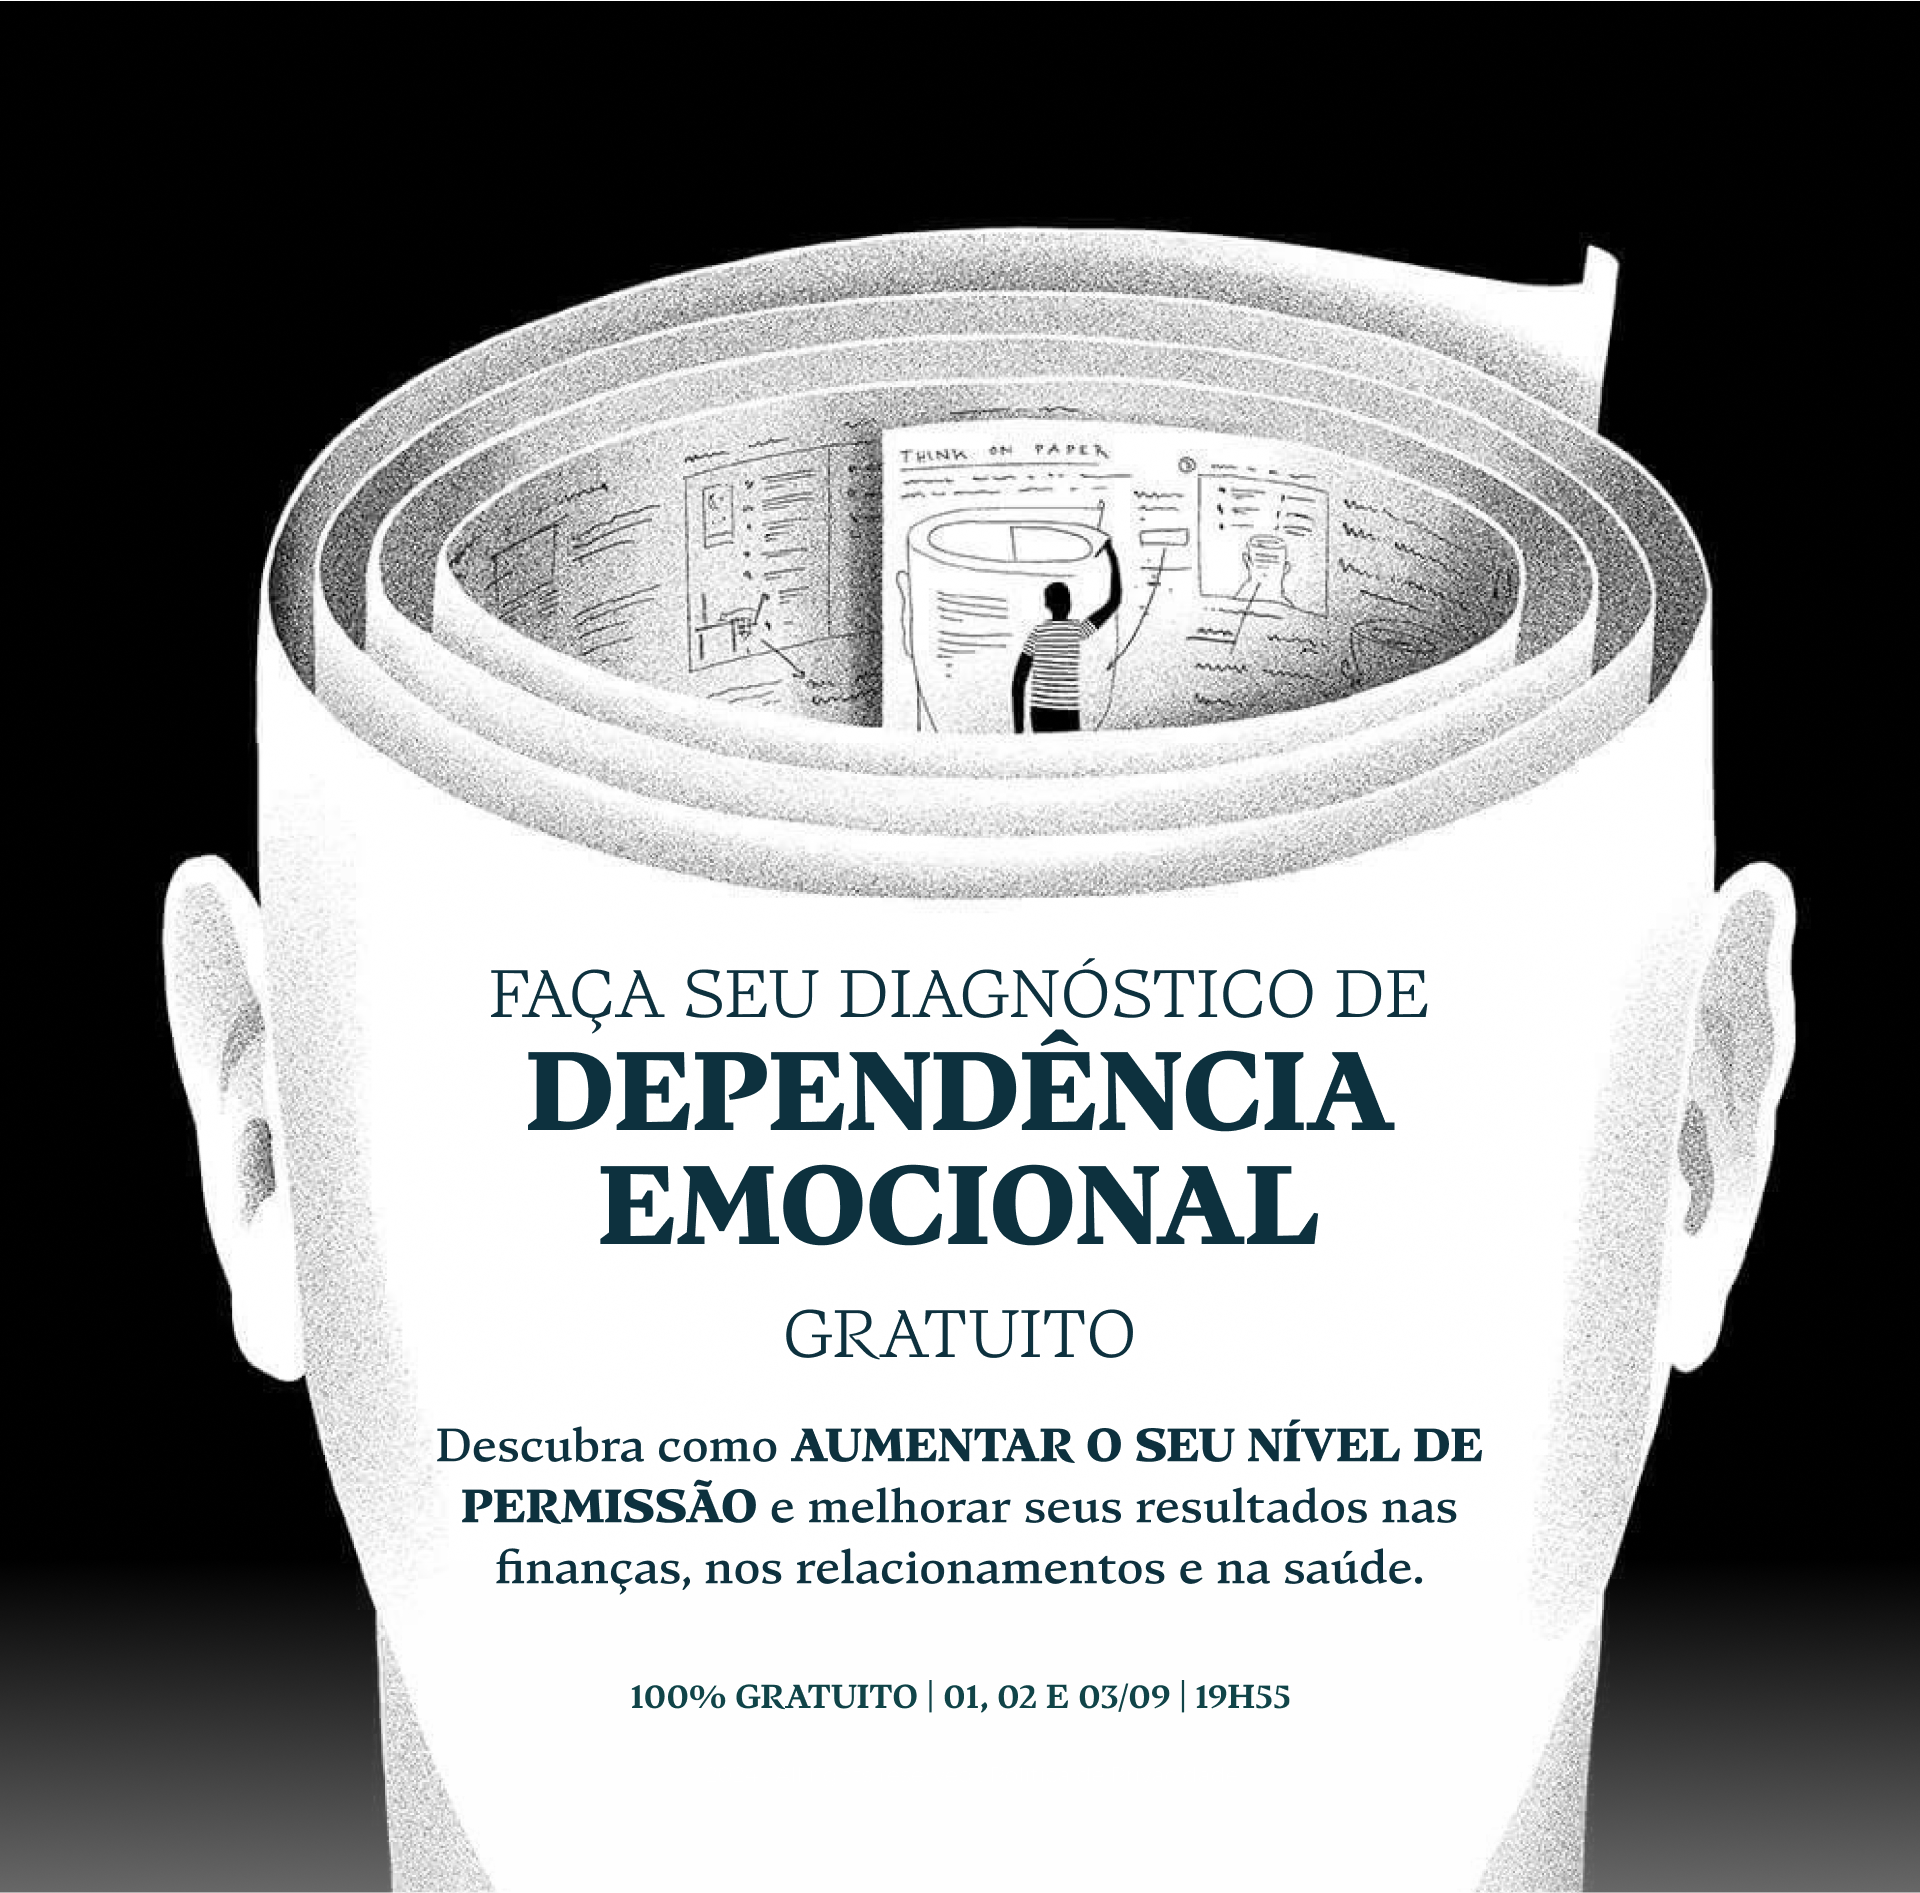
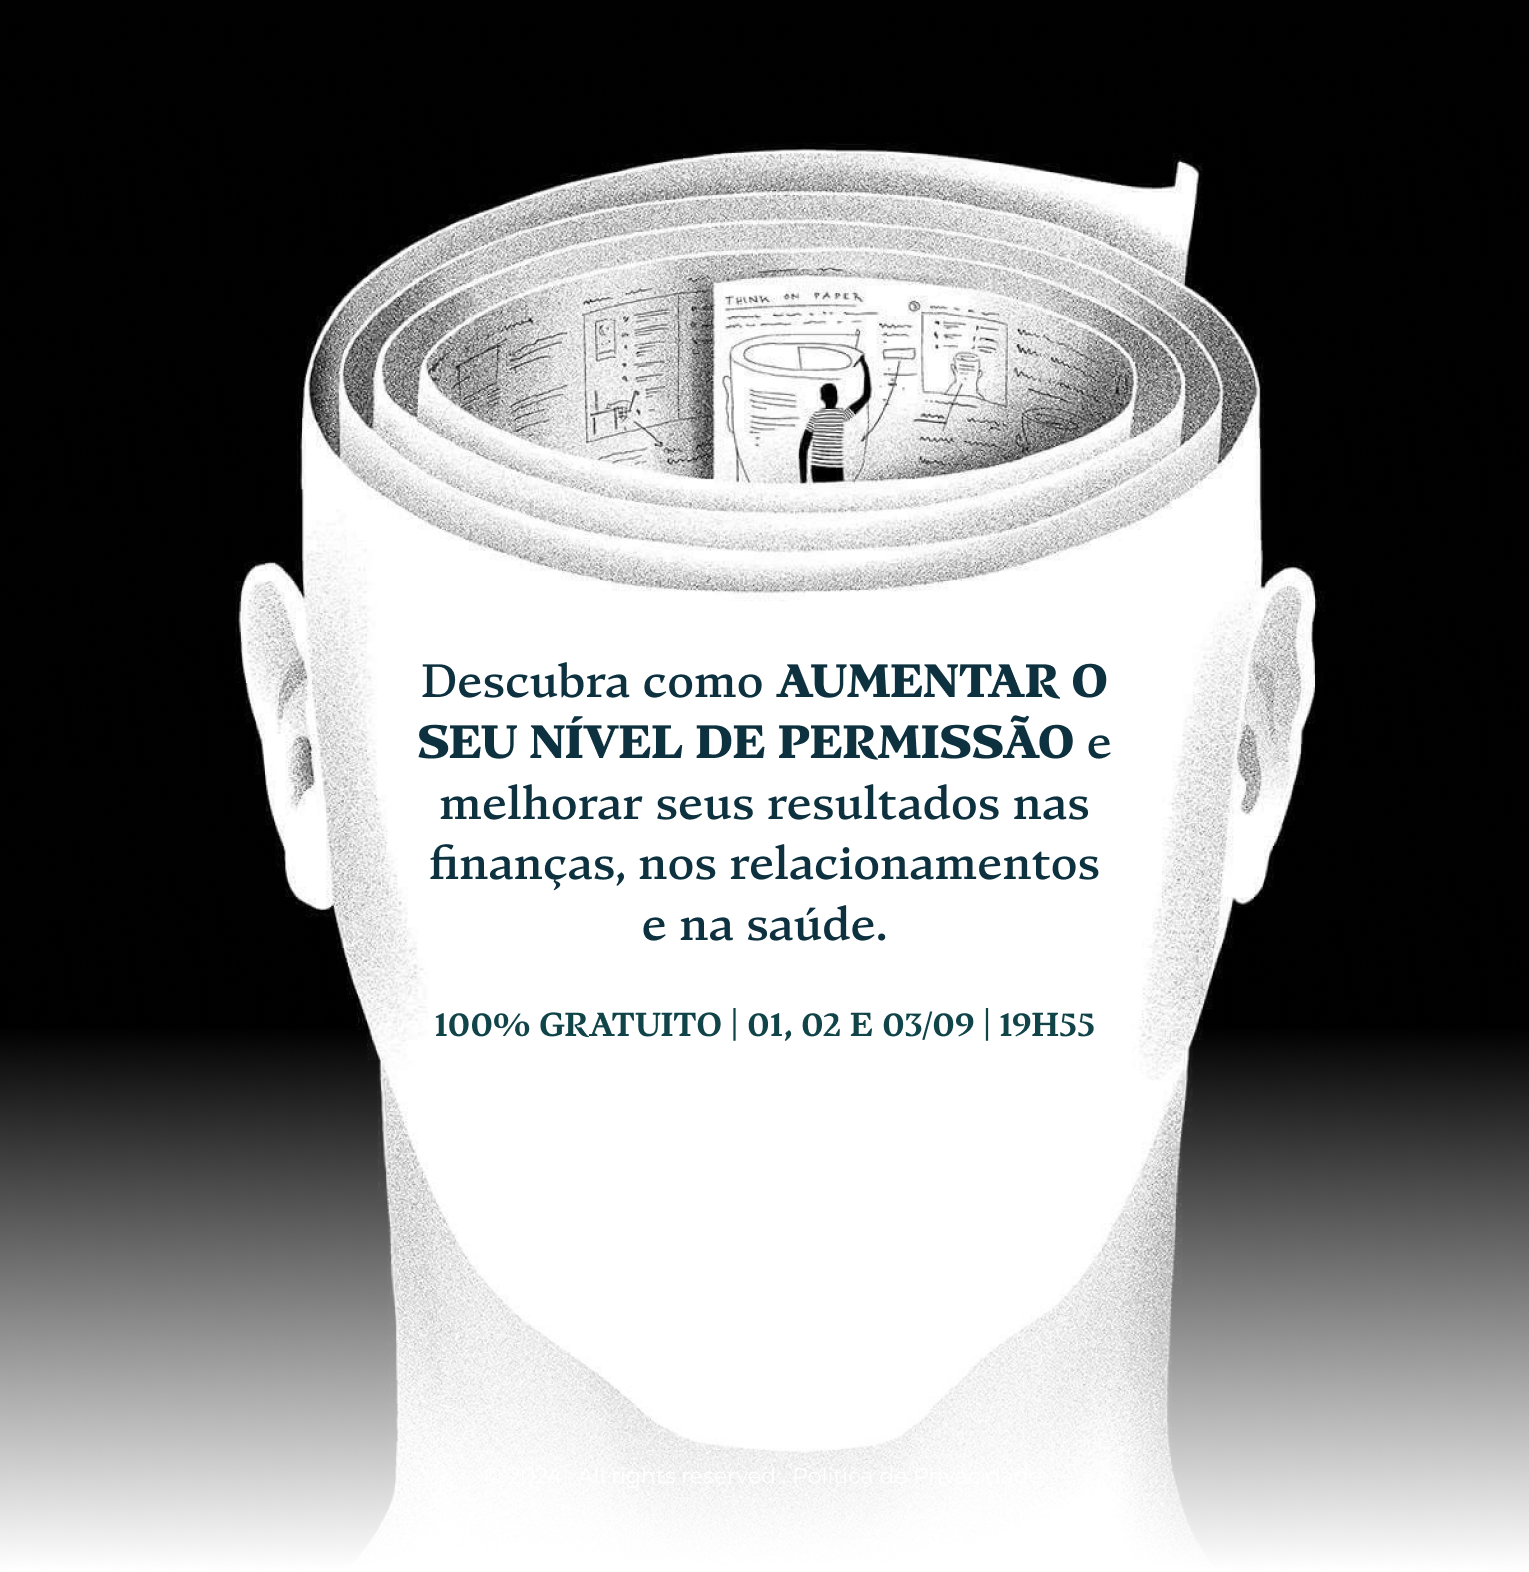
refactor: atualizar layout e estilos do formulário v13, incluindo novas imagens e ajustes de responsividade

diff --git a/app/ordo/[version]/v13/index.tsx b/app/ordo/[version]/v13/index.tsx
@@ -458,7 +458,36 @@ export default function Formv13() {
                   </div>
                 )}
 
-                <p className="text-center text-lg sm:text-3xl text-[#fff] max-w-[600px] mx-auto mt-9 mb-2">
+                <div className="mt-8 text-center text-[#fff]">
+                  {!titleRedLine ? (
+                    <>
+                      <p className="lg:text-2xl md:text-2xl text-xs mb-1">
+                        FAÇA SEU DIAGNÓSTICO DE
+                      </p>
+                      <h2 className="text-2xl lg:text-5xl md:text-5xl font-bold mb-1">
+                        DEPENDÊNCIA
+                      </h2>
+                      <h2 className="text-2xl lg:text-5xl md:text-5xl font-bold">
+                        EMOCIONAL{" "}
+                      </h2>
+                      <span className="text-2xl lg:text-3xl md:text-3xl block md:inline">
+                        GRATUITO
+                      </span>
+                    </>
+                  ) : (
+                    <>
+                      <div
+                        className={`text-4xl md:text-5xl max-w-2xl mx-auto leading-none ${
+                          isDark ? "text-[#f4f0e1]" : "text-[#07242c]"
+                        }`}
+                      >
+                        {titleRedLine}
+                      </div>
+                    </>
+                  )}
+                </div>
+
+                <p className="text-center text-lg sm:text-3xl text-white max-w-[600px] mx-auto mt-9 mb-2">
                   Preencha os campos abaixo agora:
                 </p>
                 <form
@@ -553,13 +582,13 @@ export default function Formv13() {
                 </div>
               </div>
             </div>
-            <div className="w-full relative">
-              <div className={`top-0 bg-no-repeat bg-bottom z-0`}>
-                <img
+            <div className="mx-auto text-center relative">
+              <div className={`top-0 bg-no-repeat z-0`}>
+                <Image
                   src="/images/v13/bg-v13.png"
                   alt="Background top left"
-                  width={1920}
-                  height={1893}
+                  width={1529}
+                  height={1572}
                   className="object-contain z-0"
                   style={{
                     transformOrigin: "center",
@@ -572,12 +601,12 @@ export default function Formv13() {
             </div>
           </>
         ) : (
-          <div className="flex flex-col items-center justify-center">
+          <div className="flex flex-col items-center justify-center mt-5">
             <div className={`top-0 bg-no-repeat bg-bottom z-0`}>
               <img
                 src="/images/v13/bg-v13-mobile.png"
                 alt="Background top left"
-                width={657}
+                width={874}
                 className="object-contain z-0"
                 style={{
                   transformOrigin: "center",
@@ -587,11 +616,15 @@ export default function Formv13() {
                 }}
               />
             </div>
+            <p className={`text-center ${width < 420 ? 'text-sm' : 'text-base'} sm:text-2xl text-white max-w-[400px] mx-auto mt-[-50px] z-50`}>
+              Preencha os campos abaixo agora:
+            </p>
+
             <form
               onSubmit={handleSubmit}
               id="cadastro"
               name={launch}
-              className={`space-y-4 w-[90%] mx-auto top-[-70px] relative`}
+              className={`w-[90%] mx-auto relative`}
             >
               <div>
                 <input
@@ -605,7 +638,7 @@ export default function Formv13() {
                 />
               </div>
 
-              <div className="relative">
+              <div className="relative my-4">
                 <div className="absolute inset-y-0 left-0 pl-3 flex items-center pointer-events-none">
                   <Phone size={18} className="text-white" />
                 </div>
